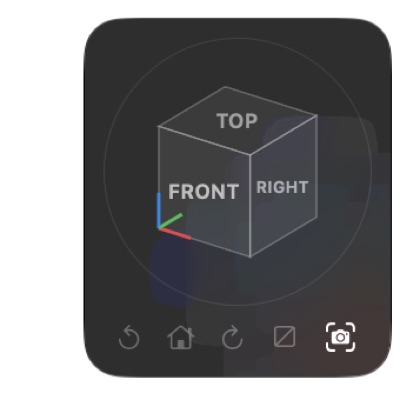
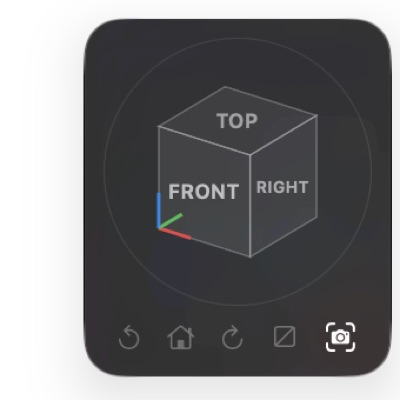
mac app: inspector values stack when they don't fit; settings footers lead in every tab; audit driver covers released + CNC + measurements; refreshed evidence

diff --git a/apple/VcadApp/Sources/VcadApp/UIAuditDemo.swift b/apple/VcadApp/Sources/VcadApp/UIAuditDemo.swift
@@ -63,6 +63,33 @@ enum UIAuditDemo {
             }
         }
 
+        /// Every workspace (Fab's CNC studio included), the ··· palette on
+        /// every tab, history, the shortcut sheet, the command palette, and a
+        /// selection with Measurements open.
+        func surfaces(_ p: String) async {
+            for space in DockSpace.allCases {
+                ui.enter(space, model: m)
+                await snap("\(p)-\(space.rawValue)")
+            }
+            m.workspace = .manufacture; await snap("\(p)-cnc-studio")
+            ui.enter(.design, model: m)
+            for space in DockSpace.allCases {
+                ui.space = space
+                ui.paletteOpen = true
+                await snap("\(p)-palette-\(space.rawValue)")
+                ui.paletteOpen = false
+                await wait(0.3)
+            }
+            ui.space = .design
+            ui.historyOpen = true; await snap("\(p)-history"); ui.historyOpen = false; await wait(0.5)
+            ui.shortcutsShown = true; await snap("\(p)-shortcuts"); ui.shortcutsShown = false; await wait(0.5)
+            m.showsCommandPalette = true; await snap("\(p)-command-palette"); m.showsCommandPalette = false
+            let shown = m.measurementsShown
+            m.selectParts([0]); m.measurementsShown = true
+            await snap("\(p)-selected-measurements")
+            m.measurementsShown = shown; m.selectParts([])
+        }
+
         // Released to the desktop first: chrome floats over whatever is behind.
         ctl.setWindowed(false)
         for (scheme, appearance) in [("dark", NSAppearance.Name.darkAqua), ("light", .aqua)] {
@@ -71,8 +98,8 @@ enum UIAuditDemo {
             await snap("released-\(scheme)")
             m.distance = d * 0.32
             await snap("released-\(scheme)-close")
-            ui.paletteOpen = true; await snap("released-\(scheme)-palette"); ui.paletteOpen = false
             m.distance = d
+            await surfaces("released-\(scheme)")
         }
 
         let small = NSSize(width: 820, height: 620), large = NSSize(width: 1600, height: 1000)
@@ -84,24 +111,7 @@ enum UIAuditDemo {
                     var f = w.frame; f.size = size
                     w.setFrame(f, display: true)
                 }
-                let p = "\(scheme)-\(sizeName)"
-                for space in DockSpace.allCases {
-                    ui.enter(space, model: m)
-                    await snap("\(p)-\(space.rawValue)")
-                }
-                ui.enter(.design, model: m)
-                for space in DockSpace.allCases {
-                    ui.space = space
-                    ui.paletteOpen = true
-                    await snap("\(p)-palette-\(space.rawValue)")
-                    ui.paletteOpen = false
-                    await wait(0.3)
-                }
-                ui.space = .design
-                ui.historyOpen = true; await snap("\(p)-history"); ui.historyOpen = false
-                ui.shortcutsShown = true; await snap("\(p)-shortcuts"); ui.shortcutsShown = false
-                m.showsCommandPalette = true; await snap("\(p)-command-palette"); m.showsCommandPalette = false
-                m.selectParts([0]); await snap("\(p)-selected"); m.selectParts([])
+                await surfaces("\(scheme)-\(sizeName)")
             }
         }
         // Settings and the welcome window, in both appearances.
@@ -124,12 +134,34 @@ enum UIAuditDemo {
             }
             log += String(format: "%@-settings fitting=%.0fx%.0f\n", scheme, fit.width, fit.height)
             win.contentView = nil
+            for (tab, view) in [("agents", AnyView(Form { AgentConnectionsForm() }.formStyle(.grouped))),
+                                ("agent", AnyView(Form { AgentSettingsForm() }.formStyle(.grouped))),
+                                ("renderer", AnyView(Form { RendererSettingsForm() }.formStyle(.grouped)))] {
+                offscreen(view.frame(width: 480), appearance: appearance,
+                          to: url.appendingPathComponent("\(scheme)-settings-\(tab).png"))
+            }
             WelcomeWindowController.shared.show(model: m)
             await snap("\(scheme)-welcome")
         }
         NSApp.appearance = nil
         try? log.write(to: url.appendingPathComponent("windows.txt"), atomically: true, encoding: .utf8)
         FileHandle.standardError.write(Data("[VCAD_UI_AUDIT] done → \(dir)\n".utf8))
+    }
+
+    /// A view laid out in an offscreen window and drawn by AppKit.
+    private static func offscreen(_ view: some View, appearance: NSAppearance.Name, to file: URL) {
+        let host = NSHostingView(rootView: view)
+        host.frame = NSRect(x: 0, y: 0, width: 600, height: 900)
+        host.frame = NSRect(origin: .zero, size: host.fittingSize)
+        let win = NSWindow(contentRect: host.frame, styleMask: [.titled], backing: .buffered, defer: false)
+        win.appearance = NSAppearance(named: appearance)
+        win.contentView = host
+        host.layoutSubtreeIfNeeded(); host.display()
+        if let rep = host.bitmapImageRepForCachingDisplay(in: host.bounds) {
+            host.cacheDisplay(in: host.bounds, to: rep)
+            try? rep.representation(using: .png, properties: [:])?.write(to: file)
+        }
+        win.contentView = nil
     }
 
     /// The window as the window server composites it (glass included) when

diff --git a/apple/VcadApp/Sources/VcadApp/Theme.swift b/apple/VcadApp/Sources/VcadApp/Theme.swift
@@ -173,11 +173,22 @@ struct KeyValueRow: View {
     let value: String
     init(_ key: String, _ value: String) { self.key = key; self.value = value }
     var body: some View {
-        HStack(alignment: .firstTextBaseline) {
-            Text(key).foregroundStyle(.secondary)
-            Spacer(minLength: Theme.Space.s)
-            Text(value).monospacedDigit().multilineTextAlignment(.trailing)
-                .textSelection(.enabled)
+        // Side by side when the value fits on one line; otherwise the value
+        // goes under its key. In the 170 pt inspector "508.4 × 262.0 ×
+        // 415.3 mm" used to wrap mid-number, ragged against the key.
+        ViewThatFits(in: .horizontal) {
+            HStack(alignment: .firstTextBaseline) {
+                Text(key).foregroundStyle(.secondary)
+                Spacer(minLength: Theme.Space.s)
+                Text(value).monospacedDigit().lineLimit(1).fixedSize()
+                    .textSelection(.enabled)
+            }
+            VStack(alignment: .leading, spacing: 2) {
+                Text(key).foregroundStyle(.secondary)
+                Text(value).monospacedDigit().lineLimit(1).minimumScaleFactor(0.75)
+                    .textSelection(.enabled)
+            }
+            .frame(maxWidth: .infinity, alignment: .leading)
         }
         .font(.callout)
         .accessibilityElement(children: .combine)

diff --git a/apple/VcadApp/Sources/VcadApp/ReleasedDesktop.swift b/apple/VcadApp/Sources/VcadApp/ReleasedDesktop.swift
@@ -882,9 +882,10 @@ struct ReleasedOverlayView: View {
             if !fullBleed { Color.clear.frame(height: Glass.toolbarHeight + (model.isWindowed ? 0 : 20)) }
             // One viewport for the window's whole life. Drawing and
             // Electronics cover it rather than replace it: tearing the ARView
-            // down and building a second one left the new view rendering from
-            // the scene origin, inside the model, black with a giant gizmo,
-            // every time you came back from Drawing.
+            // down and building a second one on the way back left the new view
+            // drawing the scene wrong — near-black, the model gone but for a
+            // sliver, the gizmo filling the window (as if the camera sat
+            // inside the model) — while the model's camera state was intact.
             ZStack {
                 viewport.frame(maxWidth: .infinity, maxHeight: .infinity)
                     .opacity(showsViewport ? 1 : 0)

diff --git a/apple/VcadApp/Sources/VcadApp/AgentInstallUI.swift b/apple/VcadApp/Sources/VcadApp/AgentInstallUI.swift
@@ -163,6 +163,7 @@ struct AgentConnectionsForm: View {
         } footer: {
             Text("vcad registers itself as an MCP server (`vcad mcp` when installed, else npx -y @vcad/mcp) in each agent's config. Disconnect removes only what vcad added; a vcad entry you wrote yourself is never touched. Each file is backed up once to <file>.vcad-backup.")
                 .font(.caption).foregroundStyle(.secondary)
+                .multilineTextAlignment(.leading).frame(maxWidth: .infinity, alignment: .leading)
         }
         .onAppear(perform: refresh)
     }

diff --git a/apple/VcadApp/Sources/VcadApp/AgentPanel.swift b/apple/VcadApp/Sources/VcadApp/AgentPanel.swift
@@ -259,6 +259,7 @@ struct AgentSettingsForm: View {
         } footer: {
             Text("Any OpenAI-compatible endpoint works, including a local tang-llm server. The key is stored in your Keychain. Leave Model empty to use the one the endpoint lists. Environment overrides: FROG_BASE_URL, FROG_API_KEY, FROG_MODEL, FROG_SUPPORTS_IMAGES.")
                 .font(.caption).foregroundStyle(.secondary)
+                .multilineTextAlignment(.leading).frame(maxWidth: .infinity, alignment: .leading)
         }
     }
 }

diff --git a/apple/VcadApp/Sources/VcadApp/GlassChrome.swift b/apple/VcadApp/Sources/VcadApp/GlassChrome.swift
@@ -1743,6 +1743,7 @@ struct ShortcutSheet: View {
                         GridRow { globalColumn; navigationColumn }
                     }
                 }
+                .scrollIndicators(.visible)
                 .frame(maxHeight: 420)
             }
         }

diff --git a/docs/ui-audit/README.md b/docs/ui-audit/README.md
@@ -1,8 +1,7 @@
 # Mac app UI audit — 2026-11-19 (main e3c92f97e)
 
-Done with `fusor.loon` open, in light and dark, at 1600×1000 and 820×620, windowed and
-released to the desktop. Each capture is the window server's image of the app's own window,
-so glass is included. The script that produced them is the `VCAD_UI_AUDIT_DIR` driver
+Audited with `fusor.loon` open, light and dark, released to the desktop, and windowed at
+1600×1000 and 820×620. The script is the `VCAD_UI_AUDIT_DIR` driver
 (`apple/VcadApp/Sources/VcadApp/UIAuditDemo.swift`):
 
 ```bash
@@ -10,53 +9,68 @@ open -n apple/VcadApp/dist/vcad.app --env VCAD_UI_AUDIT_DIR=/tmp/audit --env VCA
   --args --vcad-open "$PWD/docs/videos/open-fusor/fusor.loon"
 ```
 
-It writes one PNG per visible window per state (popovers are separate windows), plus
-`windows.txt`. That file logs each window's content fitting size against its frame, so an
-overflowing popover shows up as a number, and logs the camera state at every step. With the
-screen locked the window server refuses the capture; the driver then falls back to AppKit's
-cached display, which keeps the layout but drops the glass and the viewport.
+In each state it walks:
+- every dock workspace, plus the CNC studio (`.manufacture`)
+- the ⋯ palette on every tab
+- the history strip, the shortcut sheet and the command palette
+- a selection with Measurements expanded
+
+It also runs Settings and Welcome. For each state it writes one PNG per visible window
+(popovers are separate windows) and appends the camera state to `windows.txt`.
+
+Captures come from the window server's own-window image, so glass is included. When the screen
+is locked the window server refuses, and the driver falls back to AppKit's cached display: layout
+is intact, but glass and the viewport are missing. Which evidence images are real pixels is noted
+below.
 
 ## The four reported defects
 
 | # | Report (1.0.3-beta.5) | On current main | Outcome |
 |---|---|---|---|
-| 1 | ⋯ palette clipped left/bottom, tabs truncated | Not reproducible: content fits 380×494, all 5 tabs and every row visible (`palette-design-main.jpg`). Union/Subtract/Intersect are only *disabled* with nothing selected. | Already fixed. Labels still truncated ("Check Interfere…") → **fixed** |
-| 2 | Smeared rectangle in the top bar | Reproduced in released mode. It is the `hv-feedthrough` tube refracted by the bar's glass. | **Fixed**: solid backing under released glass |
-| 3 | View cube is noisy multicolour garbage | Reproduced in released mode. The glass refracts the desktop behind it, and the cube's faces are 4–12 % opacity. | **Fixed**: same backing; labels also fit their faces now |
-| 4 | `tee` renders spiky / fan-like | Reproduced with a fresh FFI built from main (includes #1261) | **Deferred → kernel** (`tee-spikes-kernel.jpg`, handoff note in the session notes) |
+| 1 | ⋯ palette clipped left/bottom, tabs truncated | Not reproducible. All 5 tabs and every row are visible in the captures (`palette-design-main.jpg`). Union/Subtract/Intersect are only *disabled* with nothing selected. | Already fixed on main. Three labels were still truncated ("Check Interfere…") → **fixed** |
+| 2 | Smeared rectangle in the top bar | Reproduced in released mode: the `hv-feedthrough` tube refracted by the bar's glass | **Fixed**: 94 % solid backing under released glass. A faint ghost of the tube remains at the glass edge. |
+| 3 | View cube is noisy multicolour garbage | Reproduced in released mode: the glass refracts the desktop behind it, and the cube faces are 4–12 % opacity | **Fixed**: same backing. Labels are also sized to fit their faces. |
+| 4 | `tee` renders spiky / fan-like | Reproduced with a fresh FFI built from main (includes #1261) | **Deferred → kernel** (`tee-spikes-kernel.jpg`; handoff note in the session notes) |
 
 ## Every surface
 
-| Surface | Light / dark · large / small | Outcome |
-|---|---|---|
-| **Viewport after visiting Drawing or Electronics** | all | **Fixed (new, major)**: coming back built a second ARView that rendered from the scene origin, inside the model, black with a giant gizmo. One viewport now lives for the window's life. |
-| Top bar, windowed (sidebar, title, share, ✦, release, inspector toggles) | all | OK |
-| Top bar, released | both | **Fixed** (defect 2) |
-| Model navigator + filter | all | OK (long lists scroll; the last row clips at the scroll edge as intended) |
-| Inspector: empty state, selection, Measurements disclosure | all | OK |
-| View cube + ring controls | all | **Fixed** (defect 3; labels sized to their faces) |
-| Dock: Design / Assembly / Drawing / Electronics / Fab | all | OK |
-| ⋯ palette, all 5 tabs | all | **Fixed** label truncation (2 lines). Overflow: none (`windows.txt`) |
-| History filmstrip | all | OK |
-| Keyboard shortcut sheet | all | **Fixed**: model blurred behind the columns; clipped on both sides in a small window (now 4 columns or 2×2 + scroll); "Scroll wheel" chip wrapped |
-| Command palette (⇧⌘P) | all | **Fixed**: model blurred behind the list |
-| Drawing workspace (sheet, views, sheet panel) | all | OK |
-| Electronics empty state | all | OK |
-| Fab: Jobs + Sheet Metal panels | all | OK |
-| Welcome window | both | **Fixed**: "Version 1.0" was hard-coded (1.1 shipped). The "New in 1.0" strip copy is a release-notes call → deferred |
-| Settings ▸ General | both | **Fixed**: wrapped footers were ragged-right |
-| Settings ▸ Feedback / Agents / Agent / Labs / Renderer | — | Deferred: the TabView selection is not drivable offscreen |
-| Dock group menus (▾ on cube/fillet/boolean), workspace picker, title details, connection popover | — | Deferred: `@State`-driven, needs real input; computer-use access was declined |
-| Material picker, context menus, app menus | — | Deferred: system menus, same reason |
-| Analysis / sim panels | — | Deferred: not reachable without a run; `VCAD_FIELDS_SNAPSHOT_DIR` already covers the Analysis panel |
-| Release-to-desktop floating palettes (visionOS, #1269) | — | Out of scope: owned by that PR |
+| Surface | Outcome |
+|---|---|
+| **3D viewport after visiting Drawing or Electronics** | **Fixed (new, major).** On the way back, a second ARView was built, and it drew the scene wrong: near-black, the model gone except for a sliver, the gizmo filling the window. The model's camera state was intact. Confirmed: `makeNSView` ran again on return and `rebuild` saw correct sizes. Not confirmed: exactly where the new view's camera sat. Fix: one viewport for the window's life, which Drawing/Electronics cover with hit-testing off. Input can't leak into the hidden viewport: their full-area chrome regions stop the pass-through raycast, scroll and middle-mouse. |
+| Top bar, windowed (sidebar, title, share, ✦, release, inspector toggles) | OK |
+| Top bar, released | **Fixed** (defect 2) |
+| Model navigator + filter | OK. Long lists scroll; the last row clips at the scroll edge by design. |
+| Inspector: empty state, selection, material row | OK |
+| Inspector ▸ Measurements expanded | **Fixed**: "508.4 × 262.0 × 415.3 mm" wrapped mid-number in the 170 pt rail. `KeyValueRow` now goes key-above-value when the value doesn't fit on one line. |
+| View cube + ring controls | **Fixed** (defect 3) |
+| Dock: Design / Assembly / Drawing / Electronics / Fab, released + windowed | OK |
+| ⋯ palette, all 5 tabs | **Fixed** label truncation (two lines) |
+| History filmstrip | OK |
+| Keyboard shortcut sheet | **Fixed**: the model blurred behind the columns; at 820 pt it clipped on both sides (now 4 columns, or 2×2 with a visible scroller); the "Scroll wheel" key chip wrapped |
+| Command palette (⇧⌘P) | **Fixed**: the model blurred behind the list |
+| Drawing workspace | OK |
+| Electronics empty state | OK |
+| Fab: Jobs + Sheet Metal panels | OK |
+| CNC studio (Labs) | OK at 1600×1000 and released, viewport intact. **Deferred**: at 820×620 its inspector and transport bar are cramped and clipped. It has its own window-minimum logic and is a Labs workspace. |
+| Welcome window | **Fixed**: "Version 1.0" was hard-coded (1.1 shipped). The "New in 1.0" strip copy is a release-notes call → deferred |
+| Settings ▸ General, Agents, Agent, Renderer | **Fixed**: wrapped footers were ragged-right (General, Agents, Agent). Renderer OK. |
+| Settings ▸ Feedback / Labs | OK by construction (same form style); the tab itself wasn't rendered |
+| Dock group menus (▾), workspace picker, title details, connection popover | **Deferred**: `@State`-driven and need real input; computer-use access was declined |
+| Material picker, context menus, app menus | **Deferred**: system menus, same reason |
+| Analysis / sim panels | **Deferred**: need a run; `VCAD_FIELDS_SNAPSHOT_DIR` already covers the Analysis panel |
+| visionOS floating palettes (#1269) | Out of scope: owned by that PR |
 
 ## Evidence
 
+Real window-server pixels unless marked *layout-only*.
+
 - `viewport-after-drawing-{before,after}.jpg`
-- `compass-released-{before,after}.jpg`
-- `topbar-released-after.jpg`: tube under the bar; before = `before-1.0.3-beta5.webp`
-- `shortcuts-blur-{before,after}.jpg`, `shortcuts-small-{before,after}.jpg`
+- `compass-released-{before,after}.jpg`: after = 94 % backing
+- `topbar-released-after.jpg`: tube under the bar, dark + light, 94 %; before = `before-1.0.3-beta5.webp`
+- `shortcuts-blur-{before,after}.jpg`
+- `shortcuts-small-before.jpg`; `shortcuts-small-after.jpg` (*layout-only*, offscreen render)
+- `command-palette-windowed-after.jpg`, `command-palette-released-after.jpg`
 - `palette-labels-{before,after}.jpg`, `palette-design-main.jpg`
-- `welcome.jpg`
+- `welcome.jpg` (*layout-only*, shows the bundle version; the dev build is 0.1)
+- `measurements-after.jpg` (*layout-only*)
 - `tee-spikes-kernel.jpg`
